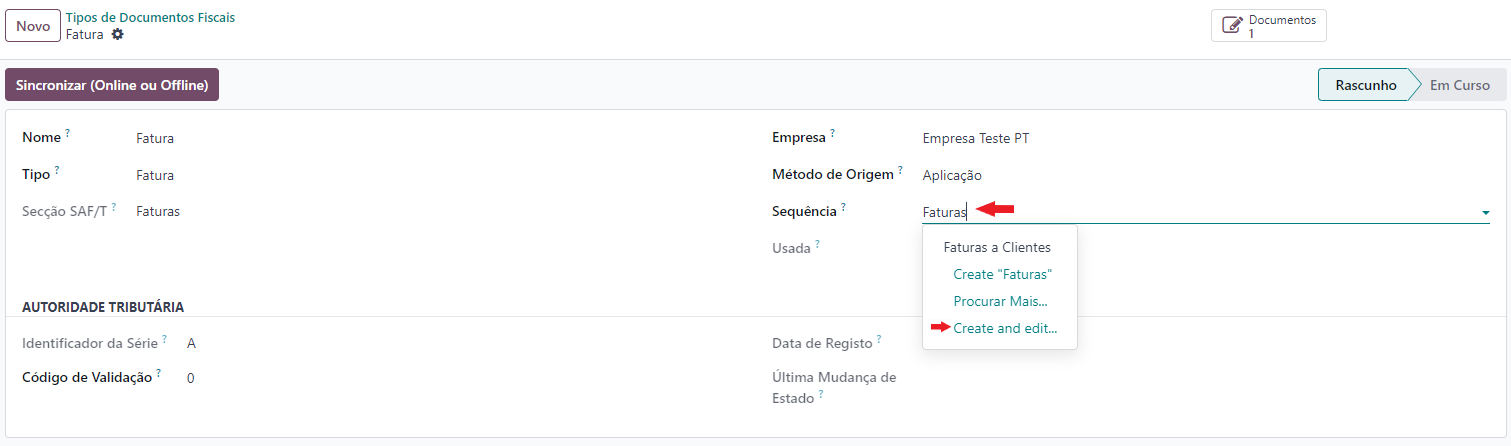
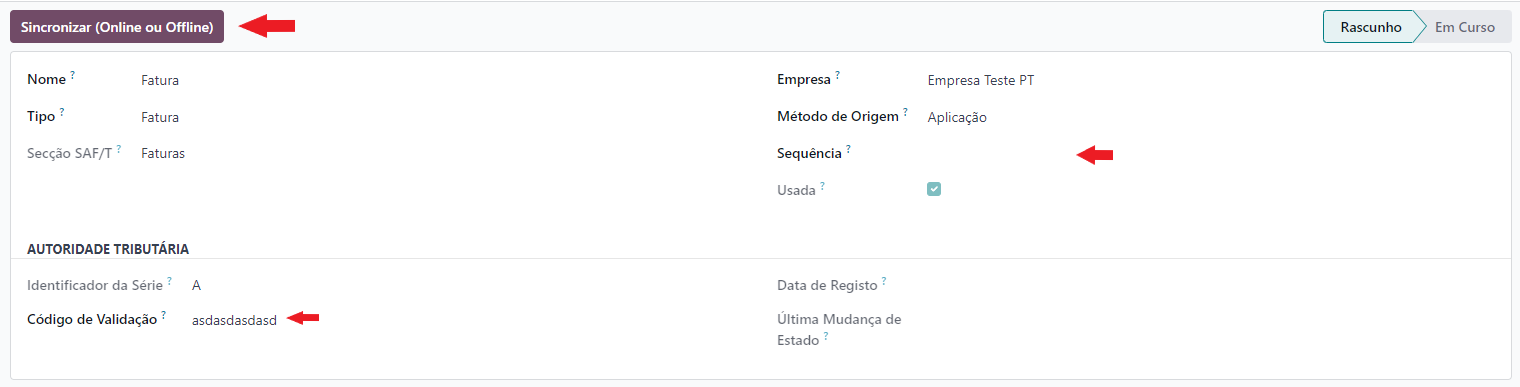
[update] series_registration.rst fixes to the information

diff --git a/content/applications/invoicing/series_registration.rst b/content/applications/invoicing/series_registration.rst
@@ -162,40 +162,33 @@ A partir desde momento a série está comunicada e pode começar a emitir docume
 
 Manter Série
 ------------
-Preencha o campo Sequência com o nome que quer dar à sequência e selecione Criar e Editar.
+Estabeleça a relação com a série já existente na AT. Para isso Garanta que o campo **Sequência** está vaio e preencha o
+campo **Código de Validação** com o código que está disponível na AT, o botão **Registar** muda para **Sincronizar**,
+clique nele para poder continuar a utilizar a sua série anterior.
 
 .. image:: series_registration/v17_keepSerie1.png
    :align: center
 
-Vai abrir uma nova janela:
-
-  - Deve ter a **Implementação** como **Sem lacunas**
-  - Pode selecionar o **Prefixo** que pretende usar, na legenda pode ver algumas configurações tradicionais para inserir certos dados como ano (2 ou 4 dígitos), mês e dia
-
-    .. tip::
-        Não precisa de se preocupar com o Prefixo obrigatório da série que esse já é inserido de forma automática pela
-        Localização PT+ Exo
-
-    .. example::
-        - Nas faturas é necessário ter FT, a localização já insere 'FT '
-        - Nas notas de encomenda é necessário ter NE, a localização já insere 'NE '
-        - etc.
-
-  - Pode no **Tamanho da Sequência** inserir o **nº mínimo de dígitos** que pretende que a sequência tenha (se eventualmente tiver mais, aumenta de forma automática)
-  - O **Próximo Número** na sequência deve ser 1
-
-Guarde as alterações.
+Pode utilizar o **Método** de sincronização Online, para que o software vá às informações no servidor da AT para
+e traga a informação necessária, em seguida carregue no botão **Comunicar**
 
 .. image:: series_registration/v17_keepSerie2.png
    :align: center
 
-Isto vai configurar a sua sequência no Odoo, mas ainda não está completo pois falta estabelecer a relação com a séria na AT.
-
-Para isso preencha o campo **Código de Validação** com o código que está disponível na AT, o botão **Registar** muda
-para **Sincronizar**, clique nele para poder continuar a utilizar a sua série anterior.
+Pode utilizar o **Método** de sincronização Offline e inserir o **Identificador da Série**, para que o software crie a
+série sem comunicar com o servidor, em seguida carregue no botão **Validar**
 
 .. image:: series_registration/v17_keepSerie3.png
    :align: center
+
+.. important::
+    Terá depois de entrar na sequência criada e editar o campo **Próximo Número**
+
+    .. image:: series_registration/v17_keepSerie4.png
+       :align: center
+
+    .. image:: series_registration/v17_keepSerie5.png
+       :align: center
 
 .. important::
     No caso das **séries documentais relativas a transporte de bens** existe um passo extra.
